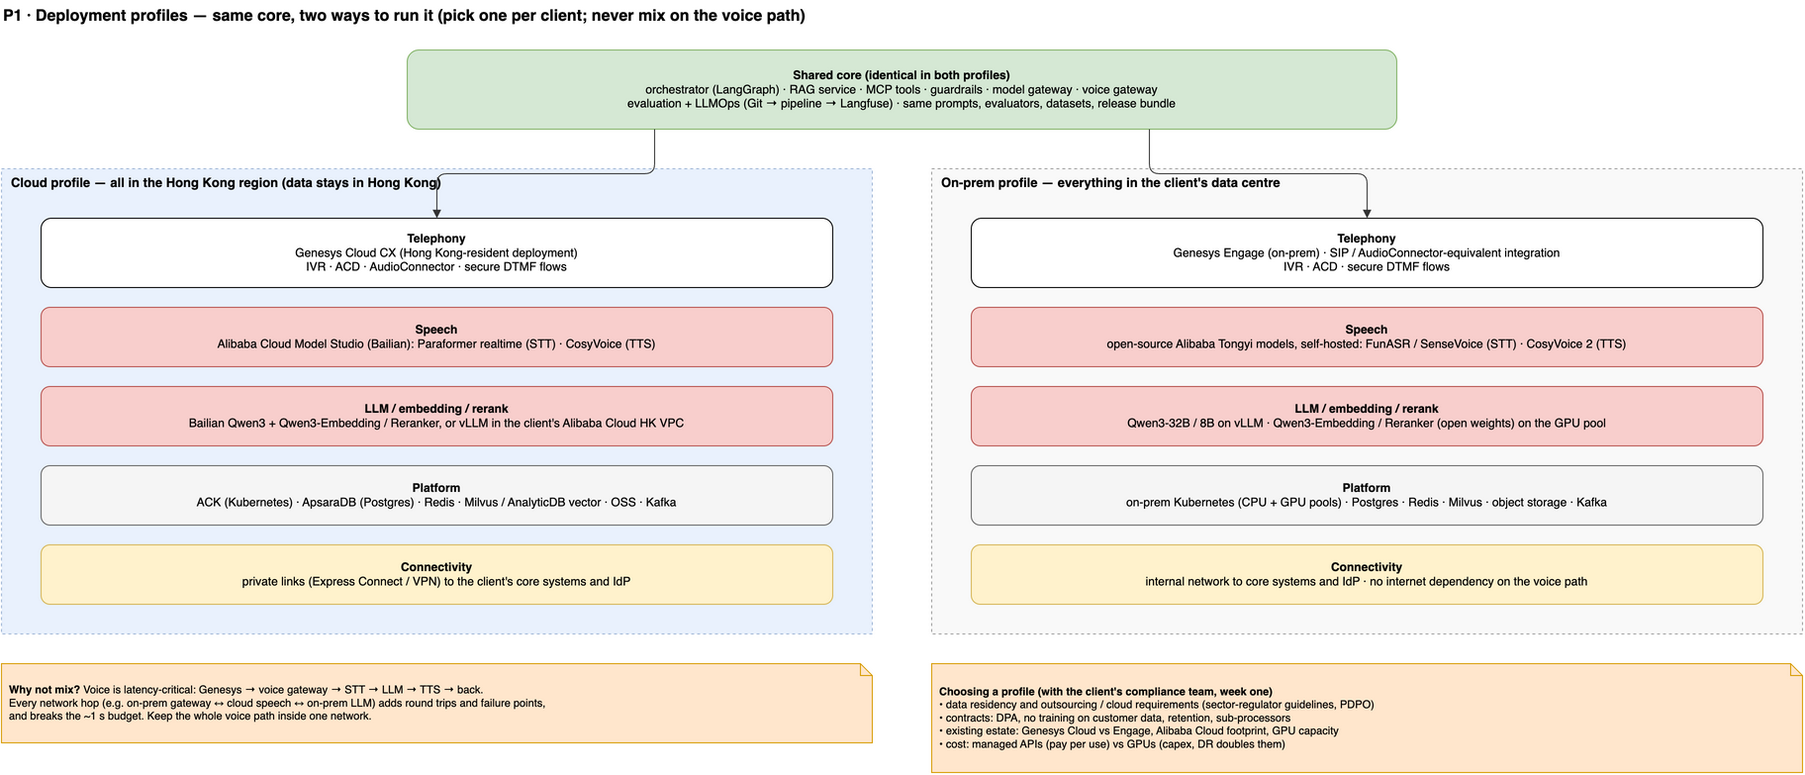
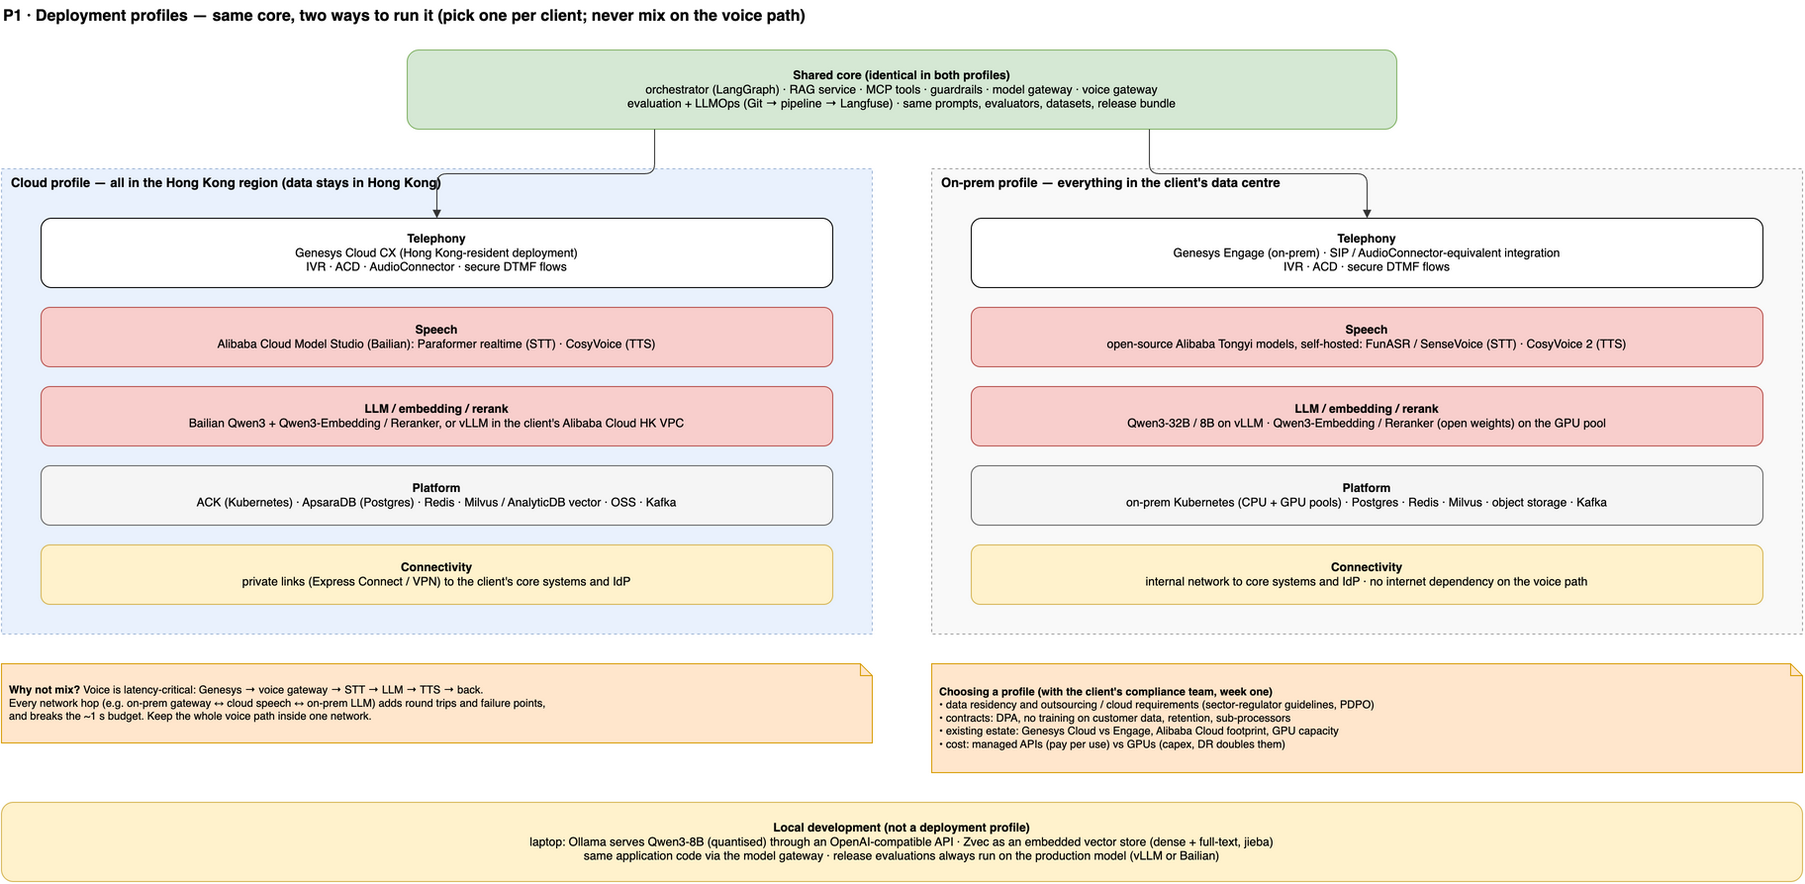
v1.7: local development (Ollama) and vector store options (Zvec)
- Local development setup: Ollama on a laptop (Qwen3-8B, quantised) via an
  OpenAI-compatible API; development only, release evals stay on the
  production model (vLLM or Bailian).
- New 5.4 Vector store options: Milvus (production), pgvector (phase 1 MVP),
  Zvec (in-process, for local dev, tests and read-only KB snapshots) behind a
  VectorStore interface.
- 15.9 test tooling, section 20 (#7) and section 22 tech stack updated.
- Diagrams R3 (model inventory) and P1 (deployment profiles) regenerated.

diff --git a/tools/gen_components.py b/tools/gen_components.py
@@ -261,7 +261,7 @@ d.note("Why hybrid: dense handles paraphrase (张单点解贵咗 ≈ why is my b
 d.save(os.path.join(OUT, "R2-hybrid-retrieval.drawio"))
 
 # ======================= R3 Model inventory (no edges) =======================
-d = Diagram("R3 Model Inventory", 1500, 900)
+d = Diagram("R3 Model Inventory", 1500, 1000)
 d.text("R3 · Model inventory — all Alibaba Qwen / Tongyi: Bailian in the cloud profile, open source on-prem", 40, 10, 1200, 30, 16, True)
 rows = [
     ("Voice in", [("Silero VAD", "end-of-speech · CPU"), ("Paraformer realtime (Bailian)", "STT · cloud profile"), ("FunASR / SenseVoice", "STT · on-prem profile (open source)")]),
@@ -272,12 +272,13 @@ rows = [
     ("Documents", [("PaddleOCR", "text extraction"), ("Qwen2.5-VL-7B", "receipt / report fields")]),
     ("Voice out", [("CosyVoice (Bailian)", "TTS · cloud profile"), ("CosyVoice 2 (open source)", "TTS · on-prem profile")]),
     ("Evaluate", [("Qwen3-8B judge", "online sampling (calibrated)"), ("Qwen3-32B + human", "offline release gate")]),
+    ("Local dev only", [("Ollama · Qwen3-8B (quantised)", "laptop · OpenAI-compatible API"), ("Zvec (embedded)", "dense + full-text (jieba) · dev / tests"), ("Release evals", "always on the production model")]),
 ]
 y = 60
 for stage, models in rows:
     d.box(f"<b>{stage}</b>", 40, y, 150, 70, "edge")
     for i, (m, desc) in enumerate(models):
-        zone = "data" if any(k in m for k in ("Milvus", "Rules", "PaddleOCR", "VAD")) else "model"
+        zone = "data" if any(k in m for k in ("Milvus", "Rules", "PaddleOCR", "VAD", "Zvec", "Release")) else "model"
         d.box(f"<b>{m}</b><br>{desc}", 220 + i * 330, y, 300, 70, zone)
     y += 95
 d.note("Small models for simple, latency-sensitive steps; 32B where citations and tool accuracy matter;<br>"

diff --git a/tools/gen_llmops.py b/tools/gen_llmops.py
@@ -141,7 +141,7 @@ d.save(os.path.join(OUT, "E3-simulation-harness.drawio"))
 print("llmops done")
 
 # ======================= P1 Deployment profiles =======================
-d = Diagram("P1 Deployment Profiles", 1900, 880)
+d = Diagram("P1 Deployment Profiles", 1900, 960)
 d.text("P1 · Deployment profiles — same core, two ways to run it (pick one per client; never mix on the voice path)", 40, 10, 1400, 30, 16, True)
 core = d.box("<b>Shared core (identical in both profiles)</b><br>orchestrator (LangGraph) · RAG service · MCP tools · guardrails · model gateway · voice gateway<br>"
              "evaluation + LLMOps (Git → pipeline → Langfuse) · same prompts, evaluators, datasets, release bundle", 450, 60, 1000, 80, "core")
@@ -166,5 +166,8 @@ d.note("<b>Choosing a profile (with the client's compliance team, week one)</b><
        "• contracts: DPA, no training on customer data, retention, sub-processors<br>"
        "• existing estate: Genesys Cloud vs Engage, Alibaba Cloud footprint, GPU capacity<br>"
        "• cost: managed APIs (pay per use) vs GPUs (capex, DR doubles them)", 980, 680, 880, 110)
+d.box("<b>Local development (not a deployment profile)</b><br>"
+      "laptop: Ollama serves Qwen3-8B (quantised) through an OpenAI-compatible API · Zvec as an embedded vector store (dense + full-text, jieba)<br>"
+      "same application code via the model gateway · release evaluations always run on the production model (vLLM or Bailian)", 40, 820, 1820, 80, "edge")
 d.save(os.path.join(OUT, "P1-deployment-profiles.drawio"))
 print("profiles done")

diff --git a/README.md b/README.md
@@ -6,6 +6,8 @@
 - **cloud:** Alibaba Cloud Model Studio (Bailian), Hong Kong region;
 - **on-prem:** open-source models self-hosted on vLLM.
 
+For **local development** (not a deployment profile), engineers run the same model family on a laptop with **Ollama** (Qwen3-8B, quantised) and use **Zvec** as an embedded vector store, so the full agent loop runs offline without a GPU server.
+
 **Generic core + domain packs.** The core (channels, orchestration, RAG, model gateway, identity, guardrails, evaluation, LLMOps) is industry-neutral. Each industry adds a *domain pack*: intents, tools, knowledge sources, compliance rules and approval flows.
 
 It is designed for **regulated industries** (financial services, healthcare, telecom, utilities). Examples use generic **accounts, plans, service cases and versioned product terms**, with voice identity verification and human approval for account changes.
@@ -340,6 +342,19 @@ Retrieval and generation are tested and scored in [section 15.4](#154-rag-evalua
 
 A **related-history lookup** runs in parallel with retrieval: same customer, intent and entity within the last 30 days. This detects repeat contacts; a third unresolved call about the same case escalates instead of repeating the same answer.
 
+### 5.4 Vector store options
+
+| Option | Where it is used | Why |
+|---|---|---|
+| **Milvus** | Production, both profiles (cloud: Milvus or AnalyticDB vector) | A server with replicas, partitions per product line and the `kb_live` alias for snapshot releases |
+| **pgvector** | Phase 1 MVP ([section 20](#20-known-trade-offs-and-open-questions), #7) | Reuses the Postgres that is already there |
+| **Zvec** (Alibaba, open source, Apache 2.0) | Local development and tests; optional for small, read-mostly deployments | An in-process library (`pip install zvec`), no server. Dense and sparse vectors, full-text search with jieba built in, and hybrid search with metadata filters in one query; write-ahead log for durability |
+
+- Zvec covers the same hybrid features as Milvus (dense search, full-text search, filters), so retrieval code and the RAG evaluation ([15.4](#154-rag-evaluation)) can run on a laptop against the same KB snapshot.
+- **Limit:** writes are single-process; many processes can read. That fits a **read-only KB snapshot** built by the ingestion job and shipped to each pod. It does not fit a shared store with many writers, so production stays on Milvus.
+- Retrieval sits behind a small `VectorStore` interface, so Milvus, pgvector and Zvec can be swapped. The retrieval eval gate decides, not the library.
+- Zvec is a young project (v0.8): pin the version and re-run the retrieval evals on every upgrade.
+
 ---
 
 ## 6. Models
@@ -372,7 +387,8 @@ A **related-history lookup** runs in parallel with retrieval: same customer, int
 
 **Deployment.** All LLM and speech calls go through our own model gateway and voice gateway, so the backend can be swapped without changing application code:
 - **cloud profile:** Bailian (Qwen, Paraformer, CosyVoice) or vLLM in the client's Alibaba Cloud Hong Kong VPC;
-- **on-prem profile:** the same model families as open weights on vLLM, plus FunASR and CosyVoice.
+- **on-prem profile:** the same model families as open weights on vLLM, plus FunASR and CosyVoice;
+- **local development:** Ollama on a laptop serves the same family (Qwen3-8B, quantised) through an OpenAI-compatible API, so application code does not change. This is for development only. Quantisation and the serving stack differ from production (tool-call parsing, structured output, throughput), so release evaluations always run on the production model on vLLM or Bailian.
 
 See [section 19](#19-deployment-profiles-cloud-vs-on-prem).
 
@@ -1064,7 +1080,7 @@ Open source by default. The application depends only on standard OIDC / OAuth en
 | Unit | pytest, pytest-asyncio; **Hypothesis** (property-based tests for guardrail rules and parsers) | syrupy (snapshots) |
 | LangGraph and agent units | LangChain fake chat models (`GenericFakeChatModel`) for fixed outputs; `InMemorySaver` and `InMemoryStore` instead of Postgres | vcrpy / pytest-recording to replay recorded LLM responses |
 | Contract and API | **Pact** (consumer-driven contracts, including error codes); **Schemathesis** (fuzzing from OpenAPI); **WireMock** or Prism to mock core-system APIs | MCP Inspector |
-| Integration environment | **Testcontainers**: Postgres + pgvector, Redis, Redpanda (Kafka-compatible), Milvus, Keycloak, MinIO | docker compose for local development |
+| Integration environment | **Testcontainers**: Postgres + pgvector, Redis, Redpanda (Kafka-compatible), Milvus, Keycloak, MinIO | docker compose for local development; **Ollama** (Qwen3-8B) + **Zvec** for laptop runs without containers or a GPU |
 | **Identity** | Unit and contract: **mock-oauth2-server** + **PyJWT** (also forges invalid tokens: `alg=none`, wrong `aud`, expired, unknown `kid`, ID token as access token). CI and nightly: **Keycloak** container (token exchange, CIBA, test users per role and `acr`). **Staging E2E: the client's real IdP**, e.g. an Auth0 or Entra ID test tenant | OpenID Foundation conformance suite for the BFF |
 | Agent evaluation and simulation | **Langfuse** datasets, experiments and judges; our **simulation harness** ([15.3](#153-agent-simulation-harness)); **agentevals** (trajectory matching); **openevals** (multi-turn simulation, LLM-as-judge) | DeepEval, Inspect AI |
 | RAG | **ranx** or pytrec_eval (Recall@k, MRR, nDCG); **RAGAS** (context precision and recall, faithfulness) with judges through our gateway | — |
@@ -1261,7 +1277,7 @@ This design **assumes the cloud profile keeps all data in Hong Kong**. That must
 | 4 | Cantonese speech quality | Paraformer, SenseVoice and CosyVoice on domain terms, accents and code-switching are unproven for this domain | Launch chat first; gate voice on CER measured with anonymised real recordings; hotword lists |
 | 5 | Telephony integration | Bot integration capabilities differ between Genesys Cloud (AudioConnector) and Engage | Voice gateway behind an adapter; validate the exact integration in a Genesys test org |
 | 6 | IdP capabilities | Token exchange and CIBA are not supported everywhere | Fallback: an internal token service issuing short-lived JWTs, validated via JWKS |
-| 7 | Scope of phase 1 | The full component set (Kafka, Milvus, mesh, Langfuse) is heavy for an MVP | Phase 1: chat + RAG (pgvector), no Kafka; add voice, events and the mesh as volume grows |
+| 7 | Scope of phase 1 | The full component set (Kafka, Milvus, mesh, Langfuse) is heavy for an MVP | Phase 1: chat + RAG (pgvector, or Zvec for a read-only KB snapshot), no Kafka; add voice, events and the mesh as volume grows |
 | 8 | Cost and DR | GPU DR doubles hardware; managed APIs shift cost to usage | Cost model per profile; GPU DR as warm standby with human-handoff degradation |
 | 9 | PII in traces | Langfuse traces contain conversation content | Redact before tracing; encryption, retention and access control; compliance-only access to raw archives |
 | 10 | LLM-as-judge reliability | Judges drift and can disagree with humans | Calibrate (κ ≥ 0.8), re-check monthly, pin judge versions per release comparison |
@@ -1296,7 +1312,7 @@ The diagrams are generated from code so they stay consistent and diffable. You c
 
 ## 22. Tech stack
 
-LangGraph · LangChain · vLLM · Qwen3 (32B / 8B / 30B-A3B) · Qwen3-Embedding · Qwen3-Reranker · Qwen2.5-VL · Alibaba Cloud Model Studio (Bailian: Qwen, Paraformer, CosyVoice) · FunASR / SenseVoice · CosyVoice · Genesys Cloud CX / Engage (AudioConnector, Architect, Data Actions) · Milvus (dense + BM25) · Postgres · Redis · Kafka · Kubernetes (CPU/GPU pools, KEDA, NVIDIA GPU Operator) · Istio/Linkerd (mTLS) · OIDC IdP (e.g. Keycloak) with token exchange and CIBA · Apigee/Kong · Vault · cert-manager · Argo CD · Langfuse (prompts, datasets, LLM-as-judge, traces) · promptfoo / garak / PyRIT (red team) · ELK · Prometheus/Grafana · Testing: pytest · Hypothesis · Pact · Schemathesis · WireMock · Testcontainers · Keycloak · mock-oauth2-server · agentevals / openevals · ranx · RAGAS · FreeSWITCH / PJSIP · SIPp · jiwer · Playwright · Maestro · k6 · Locust · Chaos Mesh · Toxiproxy · OWASP ZAP · Trivy · Semgrep · Presidio
+LangGraph · LangChain · vLLM · Ollama (local development) · Qwen3 (32B / 8B / 30B-A3B) · Qwen3-Embedding · Qwen3-Reranker · Qwen2.5-VL · Alibaba Cloud Model Studio (Bailian: Qwen, Paraformer, CosyVoice) · FunASR / SenseVoice · CosyVoice · Genesys Cloud CX / Engage (AudioConnector, Architect, Data Actions) · Milvus (dense + BM25) · Zvec (embedded vector store, local development) · Postgres · Redis · Kafka · Kubernetes (CPU/GPU pools, KEDA, NVIDIA GPU Operator) · Istio/Linkerd (mTLS) · OIDC IdP (e.g. Keycloak) with token exchange and CIBA · Apigee/Kong · Vault · cert-manager · Argo CD · Langfuse (prompts, datasets, LLM-as-judge, traces) · promptfoo / garak / PyRIT (red team) · ELK · Prometheus/Grafana · Testing: pytest · Hypothesis · Pact · Schemathesis · WireMock · Testcontainers · Keycloak · mock-oauth2-server · agentevals / openevals · ranx · RAGAS · FreeSWITCH / PJSIP · SIPp · jiwer · Playwright · Maestro · k6 · Locust · Chaos Mesh · Toxiproxy · OWASP ZAP · Trivy · Semgrep · Presidio
 
 ---
 

diff --git a/README.zh-CN.md b/README.zh-CN.md
@@ -6,6 +6,8 @@
 - **云上：** 阿里云百炼（Model Studio），香港 region；
 - **本地（on-prem）：** 开源模型，在 vLLM 上自托管。
 
+**本地开发**（不是一种部署形态）时，工程师在笔记本上用 **Ollama** 跑同系列模型（Qwen3-8B 量化版），并用 **Zvec** 作为嵌入式向量库，不需要 GPU 服务器就能离线跑通整个 agent 流程。
+
 **通用核心 + 行业包（domain pack）。** 核心部分（渠道、编排、RAG、模型网关、身份、护栏、评估、LLMOps）与行业无关。每个行业只需加一个 *行业包*：意图、工具、知识来源、合规规则和审批流程。
 
 本设计面向 **受监管行业**（金融服务、医疗、电信、公用事业）。示例使用通用的 **账户、套餐、服务工单和带版本的产品条款**，包含语音身份核验以及账户变更的人工审批。
@@ -341,6 +343,19 @@ refund:
 
 **相关历史查询** 与检索并行执行：同一客户、同一意图和实体在最近 30 天内的记录。用于识别重复来访；同一工单第三次来电仍未解决时，会升级处理，而不是重复同样的回答。
 
+### 5.4 向量库选项
+
+| 选项 | 用在哪里 | 原因 |
+|---|---|---|
+| **Milvus** | 生产，两种部署形态都用（云上：Milvus 或 AnalyticDB 向量版） | 服务端部署，支持副本、按产品线分区，以及用 `kb_live` 别名发布知识库快照 |
+| **pgvector** | 第一阶段 MVP（[第 20 节](#20-已知取舍与待定问题)第 7 条） | 复用已有的 Postgres |
+| **Zvec**（阿里开源，Apache 2.0） | 本地开发和测试；也可用于小规模、以读为主的部署 | 进程内的库（`pip install zvec`），不用部署服务。支持稠密和稀疏向量、内置 jieba 的全文检索，以及一次查询内结合元数据过滤的混合检索；有预写日志保证持久化 |
+
+- Zvec 覆盖了 Milvus 的混合检索能力（向量检索、全文检索、过滤），所以检索代码和 RAG 评估（[15.4](#154-rag-评估)）可以在笔记本上对同一个知识库快照运行。
+- **限制：** 写入只能由一个进程进行，读取可以多进程。这适合入库任务生成、再分发到各个 pod 的**只读知识库快照**；不适合多个写入方共享的存储，所以生产仍用 Milvus。
+- 检索放在一个简单的 `VectorStore` 接口后面，Milvus、pgvector 和 Zvec 可以互换。用哪个由检索评估闸门决定，而不是由库本身决定。
+- Zvec 还比较新（v0.8）：要锁定版本，每次升级都重新跑检索评估。
+
 ---
 
 ## 6. 模型
@@ -373,7 +388,8 @@ refund:
 
 **部署。** 所有 LLM 和语音调用都经过我们自己的模型网关和语音网关，所以后端可以替换而不用改应用代码：
 - **云上形态：** 百炼（Qwen、Paraformer、CosyVoice），或客户阿里云香港 VPC 内的 vLLM；
-- **本地形态：** 同系列模型的开源权重跑在 vLLM 上，加 FunASR 和 CosyVoice。
+- **本地形态：** 同系列模型的开源权重跑在 vLLM 上，加 FunASR 和 CosyVoice；
+- **本地开发：** 笔记本上用 Ollama 提供同系列模型（Qwen3-8B 量化版），接口兼容 OpenAI，所以应用代码不用改。这只用于开发。量化方式和推理框架都和生产不同（工具调用解析、结构化输出、吞吐），所以发布前的评估一律在 vLLM 或百炼上的生产模型上跑。
 
 见 [第 19 节](#19-部署形态云上与本地)。
 
@@ -1065,7 +1081,7 @@ owner: compliance
 | 单元 | pytest、pytest-asyncio；**Hypothesis**（对护栏规则和解析器做基于属性的测试） | syrupy（快照） |
 | LangGraph 与 agent 单元 | LangChain 的 fake chat model（`GenericFakeChatModel`）返回固定输出；用 `InMemorySaver` 和 `InMemoryStore` 代替 Postgres | vcrpy / pytest-recording 回放录制的 LLM 响应 |
 | 契约与 API | **Pact**（消费方驱动的契约，包括错误码）；**Schemathesis**（根据 OpenAPI 做模糊测试）；**WireMock** 或 Prism 模拟核心系统 API | MCP Inspector |
-| 集成环境 | **Testcontainers**：Postgres + pgvector、Redis、Redpanda（兼容 Kafka）、Milvus、Keycloak、MinIO | 本地开发用 docker compose |
+| 集成环境 | **Testcontainers**：Postgres + pgvector、Redis、Redpanda（兼容 Kafka）、Milvus、Keycloak、MinIO | 本地开发用 docker compose；笔记本上不用容器和 GPU 时用 **Ollama**（Qwen3-8B）+ **Zvec** |
 | **身份** | 单元和契约：**mock-oauth2-server** + **PyJWT**（也用来伪造非法 token：`alg=none`、`aud` 不对、过期、未知 `kid`、ID token 冒充 access token）。CI 和每晚：**Keycloak** 容器（token exchange、CIBA、按角色和 `acr` 准备测试用户）。**预发布端到端：用客户真实的 IdP**，例如 Auth0 或 Entra ID 的测试租户 | BFF 跑 OpenID Foundation conformance suite |
 | Agent 评估与模拟 | **Langfuse** 的数据集、实验和 judge；我们的 **模拟测试框架**（[15.3](#153-agent-模拟测试框架)）；**agentevals**（轨迹匹配）；**openevals**（多轮模拟、LLM-as-judge） | DeepEval、Inspect AI |
 | RAG | **ranx** 或 pytrec_eval（Recall@k、MRR、nDCG）；**RAGAS**（context precision/recall、忠实度），judge 经我们的网关调用 | — |
@@ -1262,7 +1278,7 @@ owner: compliance
 | 4 | 粤语语音质量 | Paraformer、SenseVoice 和 CosyVoice 在行业术语、口音和中英夹杂上的表现，在本领域还没有验证 | 先上线聊天；语音以匿名化真实录音测得的字错率为闸门；热词表 |
 | 5 | 电话系统集成 | Genesys Cloud（AudioConnector）和 Engage 的机器人集成能力不同 | 语音网关做在适配层后面；在 Genesys 测试组织里验证具体的集成方式 |
 | 6 | IdP 能力 | 不是所有 IdP 都支持 token exchange 和 CIBA | 兜底方案：内部 token 服务签发短期 JWT，通过 JWKS 校验 |
-| 7 | 第一阶段范围 | 完整组件（Kafka、Milvus、service mesh、Langfuse）对 MVP 来说太重 | 第一阶段：聊天 + RAG（pgvector），不用 Kafka；随业务量增长再加语音、事件和 service mesh |
+| 7 | 第一阶段范围 | 完整组件（Kafka、Milvus、service mesh、Langfuse）对 MVP 来说太重 | 第一阶段：聊天 + RAG（pgvector，或用 Zvec 承载只读知识库快照），不用 Kafka；随业务量增长再加语音、事件和 service mesh |
 | 8 | 成本与灾备 | GPU 灾备会让硬件翻倍；托管 API 把成本转成按量计费 | 每种形态做成本模型；GPU 灾备用温备，降级时转人工 |
 | 9 | Trace 里的 PII | Langfuse trace 包含对话内容 | Trace 前先脱敏；加密、保留期和访问控制；原始归档只有合规能访问 |
 | 10 | LLM-as-judge 的可靠性 | Judge 会漂移，也可能和人的判断不一致 | 校准（κ ≥ 0.8），每月复查，每次发布比较时锁定 judge 版本 |
@@ -1297,7 +1313,7 @@ done
 
 ## 22. 技术栈
 
-LangGraph · LangChain · vLLM · Qwen3（32B / 8B / 30B-A3B）· Qwen3-Embedding · Qwen3-Reranker · Qwen2.5-VL · 阿里云百炼（Qwen、Paraformer、CosyVoice）· FunASR / SenseVoice · CosyVoice · Genesys Cloud CX / Engage（AudioConnector、Architect、Data Actions）· Milvus（向量 + BM25）· Postgres · Redis · Kafka · Kubernetes（CPU/GPU 节点池、KEDA、NVIDIA GPU Operator）· Istio/Linkerd（mTLS）· OIDC IdP（例如 Keycloak），支持 token exchange 和 CIBA · Apigee/Kong · Vault · cert-manager · Argo CD · Langfuse（prompt、数据集、LLM-as-judge、trace）· promptfoo / garak / PyRIT（红队）· ELK · Prometheus/Grafana · 测试：pytest · Hypothesis · Pact · Schemathesis · WireMock · Testcontainers · Keycloak · mock-oauth2-server · agentevals / openevals · ranx · RAGAS · FreeSWITCH / PJSIP · SIPp · jiwer · Playwright · Maestro · k6 · Locust · Chaos Mesh · Toxiproxy · OWASP ZAP · Trivy · Semgrep · Presidio
+LangGraph · LangChain · vLLM · Ollama（本地开发）· Qwen3（32B / 8B / 30B-A3B）· Qwen3-Embedding · Qwen3-Reranker · Qwen2.5-VL · 阿里云百炼（Qwen、Paraformer、CosyVoice）· FunASR / SenseVoice · CosyVoice · Genesys Cloud CX / Engage（AudioConnector、Architect、Data Actions）· Milvus（向量 + BM25）· Zvec（嵌入式向量库，本地开发）· Postgres · Redis · Kafka · Kubernetes（CPU/GPU 节点池、KEDA、NVIDIA GPU Operator）· Istio/Linkerd（mTLS）· OIDC IdP（例如 Keycloak），支持 token exchange 和 CIBA · Apigee/Kong · Vault · cert-manager · Argo CD · Langfuse（prompt、数据集、LLM-as-judge、trace）· promptfoo / garak / PyRIT（红队）· ELK · Prometheus/Grafana · 测试：pytest · Hypothesis · Pact · Schemathesis · WireMock · Testcontainers · Keycloak · mock-oauth2-server · agentevals / openevals · ranx · RAGAS · FreeSWITCH / PJSIP · SIPp · jiwer · Playwright · Maestro · k6 · Locust · Chaos Mesh · Toxiproxy · OWASP ZAP · Trivy · Semgrep · Presidio
 
 ---
 

diff --git a/CHANGELOG.md b/CHANGELOG.md
@@ -8,6 +8,22 @@ Newest first. Each entry is written in English and Chinese. Diagram IDs refer to
 
 ---
 
+## v1.7 — 2026-11-25
+
+**English**
+- **Local development** setup: Ollama on a laptop (Qwen3-8B, quantised) through an OpenAI-compatible API, so application code does not change. Development only; release evaluations still run on the production model on vLLM or Bailian (intro, section 6).
+- New **5.4 Vector store options**: Milvus (production), pgvector (phase 1 MVP) and **Zvec** (Alibaba's open-source in-process vector database) for local development, tests and read-only KB snapshots; a `VectorStore` interface keeps them swappable.
+- 15.9 test tooling, section 20 (#7 phase 1) and section 22 tech stack list Ollama and Zvec.
+- Diagrams: R3 model inventory gets a "Local dev only" row; P1 deployment profiles gets a local-development band.
+
+**中文**
+- **本地开发**方案：笔记本上用 Ollama 跑 Qwen3-8B 量化版，接口兼容 OpenAI，应用代码不用改。只用于开发；发布前的评估仍在 vLLM 或百炼上的生产模型上跑（简介、第 6 节）。
+- 新增 **5.4 向量库选项**：Milvus（生产）、pgvector（第一阶段 MVP），以及 **Zvec**（阿里开源的进程内向量数据库），用于本地开发、测试和只读知识库快照；用 `VectorStore` 接口保持可替换。
+- 15.9 测试工具、第 20 节（第 7 条第一阶段）和第 22 节技术栈加入 Ollama 和 Zvec。
+- 图：R3 模型清单新增"仅本地开发"一行；P1 部署形态新增本地开发一栏。
+
+---
+
 ## v1.6 — 2026-11-25
 
 **English**
